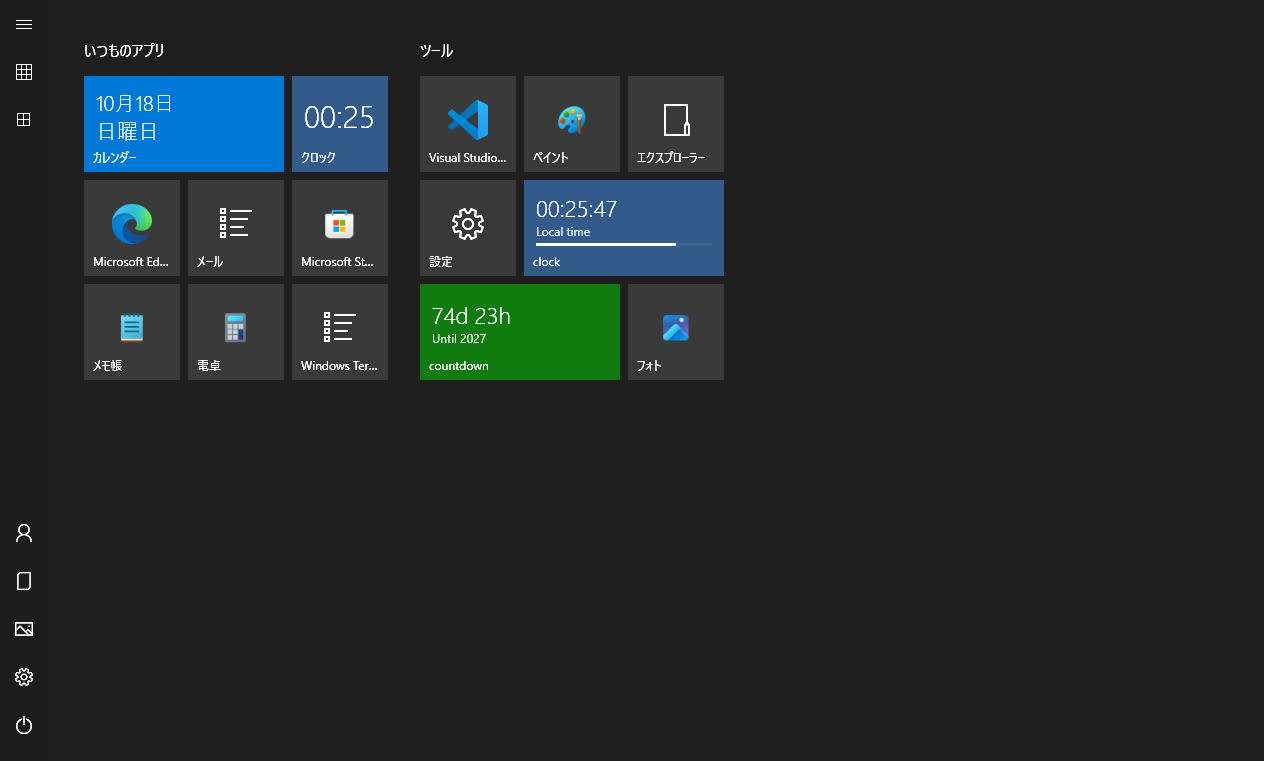
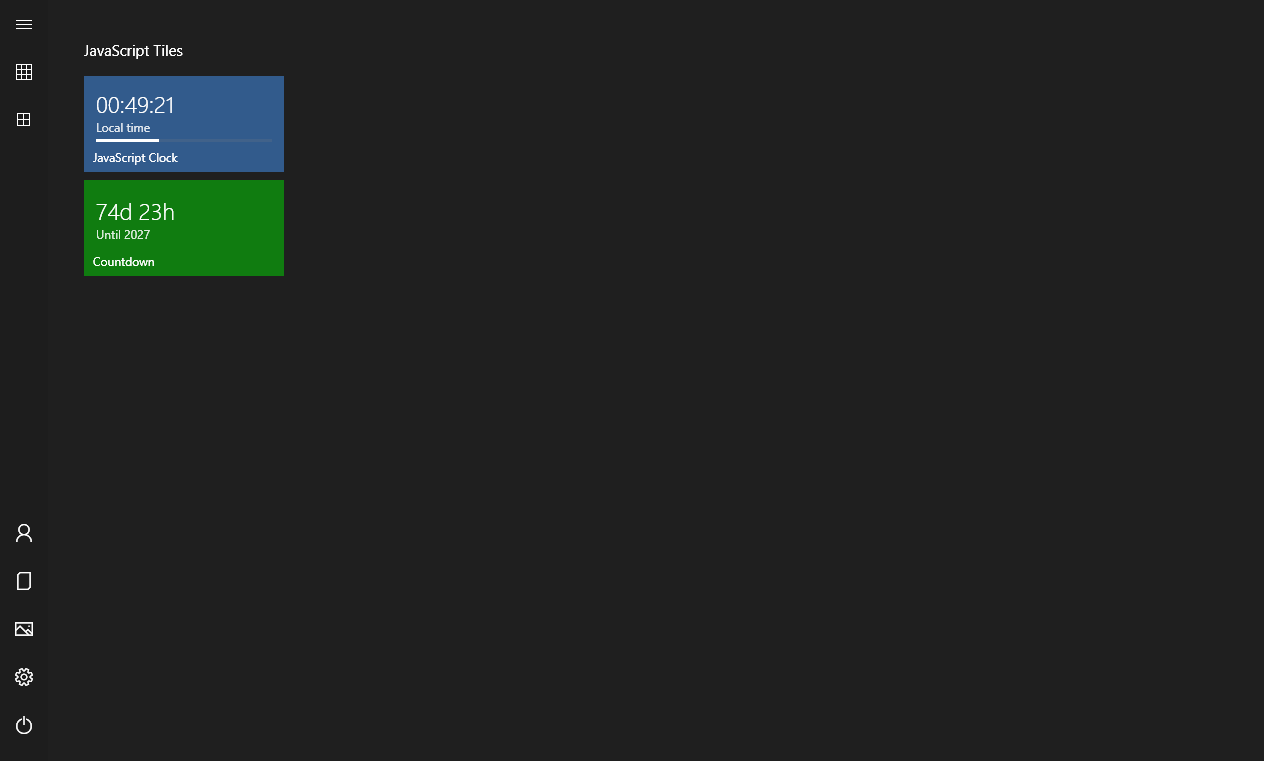
chore: release v0.2.0 with packages and complete release notes (#13)
* fix(drag): enable tile dragging and persist drop cell positions

* feat(ui): align start layout and add themed controls with ja/en localization

* fix(lifecycle): harden single instance and reconcile startup registration

* feat(tiles): add isolated JavaScript live tiles with authoring samples

* fix(tiles): enforce worker deadline independently of pipe cancellation

* fix(start): focus native search input and dismiss on taskbar clicks

* refactor(i18n): use typed resource keys and enforce API documentation

* fix(tiles): contain invalid frame and package validation failures

* docs(tiles): clarify JSON character limits in contracts and messages

* chore(release): prepare v0.2.0 packages and detailed release notes

* fix(tiles): use asynchronous user-scoped pipes for reliable worker deadlines

* chore(package): include notices from resolved .NET runtime packs

Changed region(s): [[0.0617, 0.0604, 0.5862, 0.5138]]

diff --git a/src/ReStart.App/Services/ScriptTileSession.cs b/src/ReStart.App/Services/ScriptTileSession.cs
@@ -1,4 +1,6 @@
 using System.Diagnostics;
+using System.IO.Pipes;
+using System.Text;
 using System.Text.Json;
 using ReStart.Core;
 
@@ -11,6 +13,9 @@ internal sealed class ScriptTileSession(string? workerExecutable = null) : IDisp
 {
     private Process? _process;
     private WorkerJob? _job;
+    private NamedPipeServerStream? _pipe;
+    private StreamReader? _reader;
+    private StreamWriter? _writer;
     public JsonElement State { get; private set; } = JsonSerializer.SerializeToElement(new { });
     public DateTimeOffset NextUpdate { get; set; }
     public string? Error { get; private set; }
@@ -23,18 +28,22 @@ internal sealed class ScriptTileSession(string? workerExecutable = null) : IDisp
             if (cold)
             {
                 Dispose();
-                var info = new ProcessStartInfo(workerExecutable ?? Path.Combine(AppContext.BaseDirectory, "TileHost", "ReStart.TileHost.exe")) { UseShellExecute = false, CreateNoWindow = true, RedirectStandardInput = true, RedirectStandardOutput = true };
+                var pipeName = "ReStart.Tile." + Guid.NewGuid().ToString("N");
+                _pipe = new(pipeName, PipeDirection.InOut, 1, PipeTransmissionMode.Byte, PipeOptions.Asynchronous | PipeOptions.CurrentUserOnly);
+                var info = new ProcessStartInfo(workerExecutable ?? Path.Combine(AppContext.BaseDirectory, "TileHost", "ReStart.TileHost.exe")) { UseShellExecute = false, CreateNoWindow = true };
+                info.ArgumentList.Add("--pipe"); info.ArgumentList.Add(pipeName);
                 _process = Process.Start(info) ?? throw new InvalidOperationException(TextCatalog.T(K.ErrorScriptWorkerStart));
                 _job = new(_process);
+                _reader = new(_pipe, new UTF8Encoding(false), false, 4096, leaveOpen: true);
+                _writer = new(_pipe, new UTF8Encoding(false), 4096, leaveOpen: true);
             }
             using var deadline = new CancellationTokenSource(TimeSpan.FromSeconds(cold ? 4 : 1));
-            var process = _process!;
             var request = new ScriptTileRequest(source, JsonSerializer.SerializeToElement(context, ScriptTileProtocol.Json));
             var line = JsonSerializer.Serialize(request, ScriptTileProtocol.Json);
             if (line.Length > ScriptTileProtocol.MaxRequest) throw new InvalidDataException(TextCatalog.T(K.ErrorScriptRequestSize));
-            var exchange = ExchangeAsync(process, line, deadline.Token);
-            // Cancellation on a Windows anonymous pipe does not necessarily interrupt an
-            // outstanding read. Bound the await itself, then close the worker on timeout.
+            var exchange = ExchangeAsync(_pipe!, _reader!, _writer!, line, deadline.Token);
+            // Overlapped pipe IO leaves ThreadPool workers free for the deadline timer.
+            // Bound the await itself too, then close the job and pipe on timeout.
             _ = exchange.ContinueWith(task => { _ = task.Exception; }, CancellationToken.None,
                 TaskContinuationOptions.OnlyOnFaulted | TaskContinuationOptions.ExecuteSynchronously, TaskScheduler.Default);
             var result = await exchange.WaitAsync(deadline.Token);
@@ -49,15 +58,20 @@ internal sealed class ScriptTileSession(string? workerExecutable = null) : IDisp
             Dispose(); return null;
         }
     }
-    private static async Task<string?> ExchangeAsync(Process process, string line, CancellationToken token)
+    private static async Task<string?> ExchangeAsync(NamedPipeServerStream pipe, StreamReader reader, StreamWriter writer, string line, CancellationToken token)
     {
-        await process.StandardInput.WriteLineAsync(line.AsMemory(), token).ConfigureAwait(false);
-        await process.StandardInput.FlushAsync(token).ConfigureAwait(false);
-        return await ScriptTileProtocol.ReadLineAsync(process.StandardOutput, ScriptTileProtocol.MaxResponse, token).ConfigureAwait(false);
+        if (!pipe.IsConnected) await pipe.WaitForConnectionAsync(token).ConfigureAwait(false);
+        await writer.WriteLineAsync(line.AsMemory(), token).ConfigureAwait(false);
+        await writer.FlushAsync(token).ConfigureAwait(false);
+        return await ScriptTileProtocol.ReadLineAsync(reader, ScriptTileProtocol.MaxResponse, token).ConfigureAwait(false);
     }
     /// <summary>Stops the worker while retaining JSON state so hiding the menu does not lose the last successful state.</summary>
     public void Dispose()
     {
+        _pipe?.Dispose(); _pipe = null;
+        try { _writer?.Dispose(); } catch (Exception ex) when (ex is IOException or InvalidOperationException) { }
+        _writer = null;
+        _reader?.Dispose(); _reader = null;
         _job?.Dispose(); _job = null;
         if (_process != null)
         {

diff --git a/src/ReStart.TileHost/Program.cs b/src/ReStart.TileHost/Program.cs
@@ -1,12 +1,19 @@
 using System.Text;
 using System.Text.Json;
+using System.IO.Pipes;
 using ReStart.Core;
 using ReStart.TileHost;
 
-Console.InputEncoding = Encoding.UTF8; Console.OutputEncoding = new UTF8Encoding(false);
 try
 {
-    while (await ScriptTileProtocol.ReadLineAsync(Console.In, ScriptTileProtocol.MaxRequest) is string line)
+    using var pipe = args is ["--pipe", var name] ? new NamedPipeClientStream(".", name, PipeDirection.InOut, PipeOptions.Asynchronous) : null;
+    if (pipe != null) await pipe.ConnectAsync(4000);
+    else { Console.InputEncoding = Encoding.UTF8; Console.OutputEncoding = new UTF8Encoding(false); }
+    using var pipeReader = pipe == null ? null : new StreamReader(pipe, new UTF8Encoding(false), false, 4096, leaveOpen: true);
+    using var pipeWriter = pipe == null ? null : new StreamWriter(pipe, new UTF8Encoding(false), 4096, leaveOpen: true);
+    TextReader input = pipeReader is null ? Console.In : pipeReader;
+    TextWriter outputWriter = pipeWriter is null ? Console.Out : pipeWriter;
+    while (await ScriptTileProtocol.ReadLineAsync(input, ScriptTileProtocol.MaxRequest) is string line)
     {
         ScriptTileResponse response;
         try
@@ -23,7 +30,7 @@ try
         }
         var output = JsonSerializer.Serialize(response, ScriptTileProtocol.Json);
         if (output.Length > ScriptTileProtocol.MaxResponse) output = JsonSerializer.Serialize(new ScriptTileResponse(null, TextCatalog.T(K.ErrorScriptOutputSize)), ScriptTileProtocol.Json);
-        Console.WriteLine(output); Console.Out.Flush();
+        await outputWriter.WriteLineAsync(output); await outputWriter.FlushAsync();
     }
 }
 catch (Exception ex) when (ex is IOException or InvalidDataException) { return 1; }

diff --git a/src/ReStart.Core/ScriptTiles.cs b/src/ReStart.Core/ScriptTiles.cs
@@ -13,7 +13,7 @@ public sealed class ScriptTileManifest
     public string Title { get; set; } = "JavaScript";
     /// <summary>Gets or sets the visible update interval, from 1 to 3600 seconds.</summary>
     public int RefreshSeconds { get; set; } = 5;
-    /// <summary>Gets or sets the JSON object passed as ctx.settings, limited to 8 KB.</summary>
+    /// <summary>Gets or sets the JSON object passed as ctx.settings, limited to 8,192 UTF-16 code units of raw JSON.</summary>
     public JsonElement Settings { get; set; } = JsonSerializer.SerializeToElement(new { });
     /// <summary>Rejects an invalid schema or values outside the documented tile API limits.</summary>
     public void Validate()
@@ -39,7 +39,7 @@ public sealed class ScriptTileFrame
     public string Foreground { get; set; } = "";
     /// <summary>Gets or sets an optional finite progress fraction from zero to one.</summary>
     public double? Progress { get; set; }
-    /// <summary>Gets or sets JSON state for the next successful render, limited to 8 KB.</summary>
+    /// <summary>Gets or sets JSON state for the next successful render, limited to 8,192 UTF-16 code units of raw JSON.</summary>
     public JsonElement State { get; set; } = JsonSerializer.SerializeToElement(new { });
     /// <summary>Rejects an invalid schema or values outside the documented tile API limits.</summary>
     public void Validate()

diff --git a/tests/ReStart.Core.Tests/ScriptWorkerTests.cs b/tests/ReStart.Core.Tests/ScriptWorkerTests.cs
@@ -9,6 +9,22 @@ namespace ReStart.Core.Tests;
 public sealed class ScriptWorkerTests
 {
     [Fact]
+    public async Task ConcurrentWorkersMeetDeadlinesWithoutBlockingThePool()
+    {
+        if (!OperatingSystem.IsWindows()) return;
+        var sessions = Enumerable.Range(0, 4).Select(_ => new ScriptTileSession(Path.Combine(AppContext.BaseDirectory, "ReStart.TileHost.exe"))).ToArray();
+        try
+        {
+            var ready = await Task.WhenAll(sessions.Select(session => session.RenderAsync("function render(){return {text:'ready'};}", new { })));
+            Assert.All(ready, frame => Assert.NotNull(frame));
+            var watch = Stopwatch.StartNew();
+            var results = await Task.WhenAll(sessions.Select(session => session.RenderAsync("function render(){return {text:String(/(a+)+$/.test('a'.repeat(10000)+'!'))};}", new { })));
+            Assert.All(results, frame => Assert.Null(frame));
+            Assert.True(watch.Elapsed < TimeSpan.FromSeconds(3), $"Concurrent deadlines took {watch.Elapsed.TotalMilliseconds:F0} ms.");
+        }
+        finally { foreach (var session in sessions) session.Dispose(); }
+    }
+    [Fact]
     public async Task WorkerValidationErrorsFollowRequestedLocale()
     {
         if (!OperatingSystem.IsWindows()) return;

diff --git a/src/ReStart.Core/TextKey.cs b/src/ReStart.Core/TextKey.cs
@@ -359,9 +359,9 @@ public enum TextKey
     ScriptAuthoringHelp,
     /// <summary>Scripts receive the time, language, settings and previous state. Network, file, Node.js, DOM and CLR APIs are not exposed. See the tile development guide linked in the README.</summary>
     ScriptCapabilitiesHelp,
-    /// <summary>Invalid tile manifest (version 1, title 1–80, refreshSeconds 1–3600, settings object ≤8 KB).</summary>
+    /// <summary>Invalid tile manifest (version 1, title 1–80, refreshSeconds 1–3600, settings JSON ≤8192 characters).</summary>
     ErrorScriptManifestInvalid,
-    /// <summary>Invalid tile frame. Check text lengths, #RRGGBB colors, progress 0–1 and state ≤8 KB.</summary>
+    /// <summary>Invalid tile frame. Check text lengths, #RRGGBB colors, progress 0–1 and state JSON ≤8192 characters.</summary>
     ErrorScriptFrameInvalid,
     /// <summary>Tile protocol size limit exceeded.</summary>
     ErrorScriptProtocolSize,

diff --git a/docs/release-notes.md b/docs/release-notes.md
@@ -1,15 +1,50 @@
-Windows 10 の全画面スタートを参考にした、ReStart の開発版です。
+# ReStart v0.2.0
 
-v0.1.1 では、グループの変更・削除・インポートの後に、アプリ一覧のピン留め先が古いまま残る問題を修正しました。メニューを開く時点のグループにピン留めできます。
+Windows 10 の全画面スタートを参考にした、非公開の開発版です。v0.1.1 から、ドラッグの実動作、左寄せの配置、テーマに沿った設定画面、多言語対応、JavaScript ライブタイルを改善しました。
 
-- ネイティブ全画面ランチャー、タイル、グループ、フォルダー、アプリ一覧と検索。
-- 4種類のタイルサイズ、ドラッグ、名前変更、時計・日付タイル。
-- 実アプリの列挙・アイコン、Win32 / Store アプリの起動。
-- ローカル保存、バックアップ、テーマ設定、任意の自動起動。
-- x64 / ARM64 の自己完結型 ZIP と SHA-256。
+## 配置と操作
 
-完全互換版ではありません。旧 UWP ライブ通知、Windows Search 全体、XAML タスクバーのスタートボタン置き換えなどには制限があります。Windows キーの組み合わせ、Windows 10、ARM64、複数画面は追加の実機確認が必要です。
+- ボタンにドラッグ開始が届かず、タイルが移動できない問題を修正。空きセルや別グループへの移動位置を保存します。移動先の枠と、画面端でのスクロールも追加しました。
+- グループ数が少ないと右に寄っていた初期配置を左寄せに変更。検索の「最も一致するアプリ」と結果も同じ余白に揃えました。
+- 全アプリ一覧の列の高さを揃え、文字見出しだけが列の末尾に残りにくくしました。
+- 開いた直後の入力先をネイティブの検索欄へ変更。単語先頭一致を優先し、E で Microsoft Edge が候補上限に埋もれる問題を修正しました。
+- タスクバーのクリックで閉じる処理を追加。クリック自体は Windows に渡します。ダイアログやドラッグの最中には閉じません。
 
-ZIP を展開して ReStart.exe を起動してください。管理者権限と .NET の別途インストールは不要です。未署名の開発版です。
+## 外観と言語
 
-操作と制限は README、docs/fidelity.md、docs/validation.md を参照してください。
+- 設定をカテゴリ別ナビゲーションに整理し、保存・閉じるボタンを固定。操作ボタンの文字は中央揃えにしました。
+- チェックボックス、選択欄、スライダー、スクロールバー、カレンダーをダーク／ライト／システムテーマに合わせて描画します。
+- 日本語／English／システム言語を選択可能。保存後に UI、日付、メニュー、アクセシビリティ名を切り替えます。保存済みのアプリ名・グループ名・タイル名は変更しません。
+- 日本語原文を翻訳キーに使う方式を廃止し、型付き TextKey と言語別リソースに分離しました。公開 API の XML ドキュメントコメントをビルドで検証します。
+
+## JavaScript ライブタイル
+
+設定 → JavaScript タイルからサンプルを作成し、メモ帳で tile.js を編集できます。manifest.json と tile.js のインポートにも対応します。時計とカウントダウンを同梱しました。
+
+時刻・言語・設定・前回の状態を受け取り、文字、補足、バッジ、色、進捗を返す API です。保存後の次の更新で反映し、エラー時は最後に成功した表示を保持します。実行は専用プロセスに分離し、時間・メモリ・通信サイズを制限します。ネットワーク、ファイル、Node.js、DOM、CLR は公開しません。
+
+作り方と制限は [JavaScript タイル開発ガイド](https://github.com/LastResolution/ReStart/blob/v0.2.0/docs/javascript-tiles.md) を参照してください。旧 UWP の通知配信を再現するものではありません。
+
+## 常駐と自動起動
+
+- 通常起動はユーザー・ログオンセッションごとに1つ。別の場所の実行ファイルを起動しても既存画面へ通知します。検証用プレビューはタイトルを明示した別モードです。
+- 設定 → 起動と操作で、実際の自動起動登録を読み取って登録／解除します。設定保存の失敗時には登録を復元します。
+- サインイン時は画面を開かず通知領域に常駐。バックグラウンドからの二度目起動でも画面を開きません。プレビューから自動起動の登録は変更できません。
+
+## ダウンロードと更新
+
+1. x64 PC は ReStart-win-x64.zip、ARM PC は ReStart-win-arm64.zip を選びます。SHA-256 を同梱しています。
+2. 起動中の旧版を通知領域から終了し、ZIP 全体を展開してください。TileHost、Examples、third-party も本体と一緒に置きます。
+3. ReStart.exe を起動します。.NET ランタイムの別途インストールと管理者権限は不要です。
+4. 自動起動を使っていて展開場所を変えた場合は、新版の設定で自動起動をオンにして保存し、登録先を更新してください。
+
+保存済みレイアウトは %LOCALAPPDATA%\ReStart に残ります。配布物は未署名のプレリリースです。リポジトリとリリースは非公開のままです。
+
+## 検証と既知の制限
+
+- Windows x64 の Release ビルド、73件のテスト、検索画面と JS タイルの描画を確認。2か所からの10回の重複起動、ワーカー停止後の復帰、自動起動登録の復元も検証しています。
+- E 検索の順位と描画は確認済みです。物理 Windows キーからの入力、実際のタスクバークリック、再サインインの通し確認は未実施です。
+- Windows 10 との完全一致、ARM64 実機、複数画面・異なる DPI、タッチ、Narrator は追加検証が必要です。
+- Windows 11 の XAML タスクバーにおける Start ボタン捕捉は試験的です。旧 UWP 通知、Cortana、ファイルを含む Windows Search 全体、最近使った項目は含みません。
+
+[README](https://github.com/LastResolution/ReStart/blob/v0.2.0/README.md) · [再現範囲](https://github.com/LastResolution/ReStart/blob/v0.2.0/docs/fidelity.md) · [v0.1.1 からの差分](https://github.com/LastResolution/ReStart/compare/v0.1.1...v0.2.0)

diff --git a/docs/architecture.md b/docs/architecture.md
@@ -3,14 +3,15 @@
 ## 構成
 
 ```text
-src/ReStart.Core        Windows 非依存のモデル、配置、検索、JSON 保存、キー状態
-src/ReStart.App         WPF の画面、シェル連携、入力フック、トレイ、設定
+src/ReStart.Core        モデル、配置、検索、JSON保存、型付き翻訳、JS契約、キー状態
+src/ReStart.App         WPFの画面、シェル連携、入力フック、トレイ、設定、JSプロセス管理
+src/ReStart.TileHost    Jintを使う専用ワーカー。JSON-linesで入力と表示データを交換
 tests/ReStart.Core.Tests 配置の不変条件、保存の復旧、検索とキー状態のテスト
 scripts                スモークテストと配布パッケージ作成
 .github                CI / リリース / 依存関係更新 / PR と Issue テンプレート
 ```
 
-`Core` は OS API を参照しません。WPF の `MainWindow` が表示と編集を扱い、ドメイン上の移動・フォルダー作成を `LayoutEditor` に委譲します。
+`Core` のモデル・配置・検索・保存はWPFに依存しません。SingleInstanceGateのみWindows専用の名前付き同期オブジェクトを使用し、SupportedOSPlatformを明示します。WPF の `MainWindow` が表示と編集を扱い、ドメイン上の移動・フォルダー作成を `LayoutEditor` に委譲します。
 
 ## シェルとアプリ起動
 
@@ -41,3 +42,11 @@ scripts                スモークテストと配布パッケージ作成
 フルスクリーンはモニターの WorkingArea を Win32 の物理座標で指定します。WPF の PerMonitorV2 で描画し、タイル内部は論理セルで配置します。グループは画面幅に応じて折り返します。
 
 壁紙をぼかした背景と色のオーバーレイを使います。これは Windows 10 の Acrylic を直接呼び出す実装ではありません。ハイコントラストではシステム色を優先し、背景効果を抑えます。
+
+## 翻訳と公開API
+
+TextKey列挙型をC# / XAMLから参照し、表示文言はja/enの埋め込みJSONだけに置きます。キー集合の一致と書式を検証し、保存済みのユーザーラベルは翻訳しません。公開APIのXMLコメントをビルドで検証します。[多言語実装](localization.md) と [API契約](api-contracts.md) を参照してください。
+
+## JavaScriptの実行境界
+
+ReStart.TileHostをタイルごとに専用プロセスで起動し、各描画は新しいJintエンジンで実行します。入力と出力は制限付きJSONのみです。通信は現ユーザーだけが接続できる非同期名前付きパイプで行い、応答待ちでThreadPoolのワーカーを占有しません。親側は通常1秒・初回4秒の待機期限を持ち、パイプのキャンセルに依存せずワーカーを終了できます。Job Objectでメモリと子プロセス数を制限し、メニュー非表示・アプリ終了時に終了します。詳細は [JavaScriptタイル](javascript-tiles.md) を参照してください。

diff --git a/docs/javascript-tiles.md b/docs/javascript-tiles.md
@@ -46,7 +46,7 @@ function render(ctx) {
 | `badge` | 16文字まで |
 | `background`, `foreground` | 空文字または `#RRGGBB`。ハイコントラストではシステム色を優先 |
 | `progress` | 0〜1、省略可能 |
-| `state` | JSON、8 KBまで。更新間で保持。アプリ終了・再読み込みでリセット |
+| `state` | JSON表現で8,192文字まで。更新間で保持。アプリ終了・再読み込みでリセット |
 
 タイルが小さい場合、文章は表示可能な範囲で省略します。更新周期は1〜3600秒です。ライブ更新をオフにすると実行を停止します。メニューを閉じている間はワーカーを終了し、再表示で再開します。同時更新は最大8タイルです。
 
@@ -56,7 +56,7 @@ Jint 4.17.0 を専用の `ReStart.TileHost.exe` で動かします。JavaScript 
 
 各更新は新しいエンジンで実行し、状態は返したJSONだけを引き継ぎます。20,000文、再帰32段、エンジン割り当て8 MB、100 msの制限を設定します。さらに親プロセスが通常1秒（初回起動4秒）の応答期限を持ち、超過時はワーカーを停止します。Windows Job Object はプロセス当たり192 MB・子プロセス作成不可・親終了時に終了する設定です。エラー時は最後に成功した表示を保持し、ツールチップにエラーを出します。初回から失敗した場合はエラー表示になります。
 
-ソースは64 KB、通信は入力128 KB・出力16 KB、manifestは16 KBまでです。インポートするのは決まった2ファイルだけです。レイアウトJSONにはインストール済みパッケージのIDだけを保存し、任意の外部JSパスを指定できません。レイアウトのエクスポートにはJS本体を含めません。
+ソースファイルは64 KiB、manifestファイルは16 KiBまでです。JSONの設定と状態は8,192文字、通信は入力131,072文字・出力16,384文字までです。文字数は.NETのUTF-16コード単位で数えます。インポートするのは決まった2ファイルだけです。レイアウトJSONにはインストール済みパッケージのIDだけを保存し、任意の外部JSパスを指定できません。レイアウトのエクスポートにはJS本体を含めません。
 
 別プロセスとリソース制限は応答性・障害の分離のためです。OSの権限を落としたコンテナではなく、任意の悪意あるコードに対する安全性を保証するものではありません。自分で作成した、または内容を確認したパッケージを使用してください。編集にはメモ帳を明示して使用し、Windows Script Host で `.js` を実行しません。
 

diff --git a/CHANGELOG.md b/CHANGELOG.md
@@ -1,5 +1,18 @@
 # Changelog
 
+## 0.2.0 — 2026-10-18
+
+- タイルのドラッグ開始、空きセル・グループ間の移動、座標保存、移動先の表示と端スクロールを修正・追加。
+- 初期グループ、検索見出しと結果を左寄せに変更。全アプリ一覧の列を均等化。
+- 設定をカテゴリ別に整理し、操作ボタン文字を中央揃えに変更。スクロールバー・選択欄・スライダー・カレンダーのテーマを統一。
+- 日本語 / 英語 / システム言語を追加。型付きTextKeyとJSONで文言を分離し、公開APIのXMLコメントをビルドで検証。
+- 自作JavaScriptライブタイルの作成・インポート・編集、時計 / カウントダウンのサンプル、APIガイドを追加。
+- JSの実行プロセスを分離し、期限・メモリ・通信サイズを制限。失敗時は最後の表示を保持し、タイル単位のエラーとして処理。
+- 別パスの実行ファイルにも対応した多重起動防止を強化。自動起動の実登録との照合・復元・バックグラウンド起動を改善。
+- 開いた直後の検索入力と単語先頭一致の順位を修正。タスクバークリックで閉じる処理を追加。
+- 73テストと描画・プロセス検証、配布ZIPへの実行ホスト・サンプル・第三者ライセンス同梱を追加。
+- Windowsキーとタスクバー操作の通し確認、再サインイン、ARM64実機などの未検証事項はリリースノートに明記。
+
 ## 0.1.1 — 2026-10-17
 
 - グループの編集・削除・インポート後、アプリ一覧と検索結果のピン留め先が古いまま残る問題を修正。

diff --git a/docs/api-contracts.md b/docs/api-contracts.md
@@ -15,7 +15,7 @@
 | StartupRegistration | 現ユーザーのRun値1つだけを更新。設定の保存失敗に備え、値と型を復元可能 |
 | ScriptTilePackages | GUIDでインストール先を解決。任意のJSパスをレイアウトから実行しない |
 | JsTileRunner | 1回ごとに新しいrealm。JSON以外のホストオブジェクトを渡さない |
-| ScriptTileSession | 1セッションに同時リクエスト1つ。パイプ自体のキャンセルとは独立した待機期限を持つ |
+| ScriptTileSession | 1セッションに同時リクエスト1つ。現ユーザーだけが接続できる非同期名前付きパイプを使い、通信キャンセルとは独立した待機期限も持つ |
 | WorkerJob | メモリ・プロセス数・寿命の制限。OSの権限を落としたサンドボックスではない |
 
 タイルの画面座標はWPFのDIP、保存する座標は論理セル、スクリプトのprogressは0〜1です。メニュー非表示時のJSプロセス終了は状態JSONを保持し、タイル再読み込みとアプリ終了では状態をリセットします。詳細は各型のコメントと [JavaScript API](javascript-tiles.md) を参照してください。

diff --git a/docs/releasing.md b/docs/releasing.md
@@ -15,8 +15,8 @@
 ```powershell
 git switch main
 git pull --ff-only
-git tag -a v0.1.0 -m "ReStart v0.1.0"
-git push origin v0.1.0
+git tag -a v0.2.0 -m "ReStart v0.2.0"
+git push origin v0.2.0
 gh run list --workflow release.yml
 ```
 
@@ -28,7 +28,7 @@ gh run list --workflow release.yml
 
 - CI と [検証](testing.md) を確認し、未検証を成功と記載しない。
 - 実際の app list、ユーザー名、個人レイアウト、ログが含まれていないことを確認する。
-- ZIP のファイルは `ReStart.exe`、LICENSE、README.txt の明示リストだけにする。
+- ZIPは新しいステージングフォルダーに作り、ReStart.exe、TileHost/ReStart.TileHost.exe、Examples、third-party、LICENSE、README.txtだけを収める。ビルドで解決した.NET Runtime / Windows Desktopのライセンスと通知もthird-partyへ同梱する。preview-dataや個人レイアウトを含めない。
 - Releases の可視性はリポジトリに従う。非公開のまま配布する。
 - 配布物の署名は未設定。署名鍵をリポジトリへ追加しない。
 
